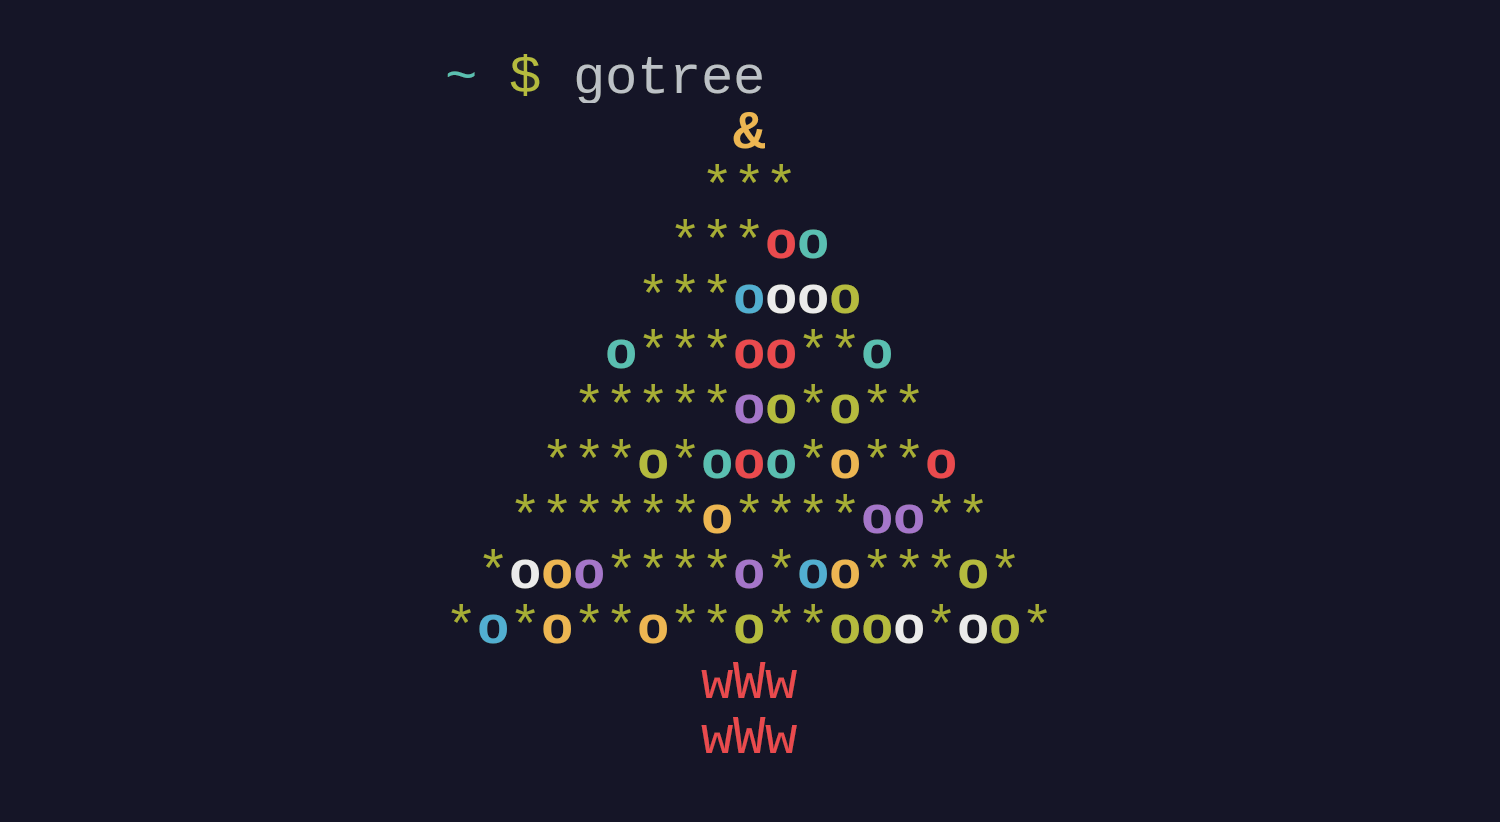
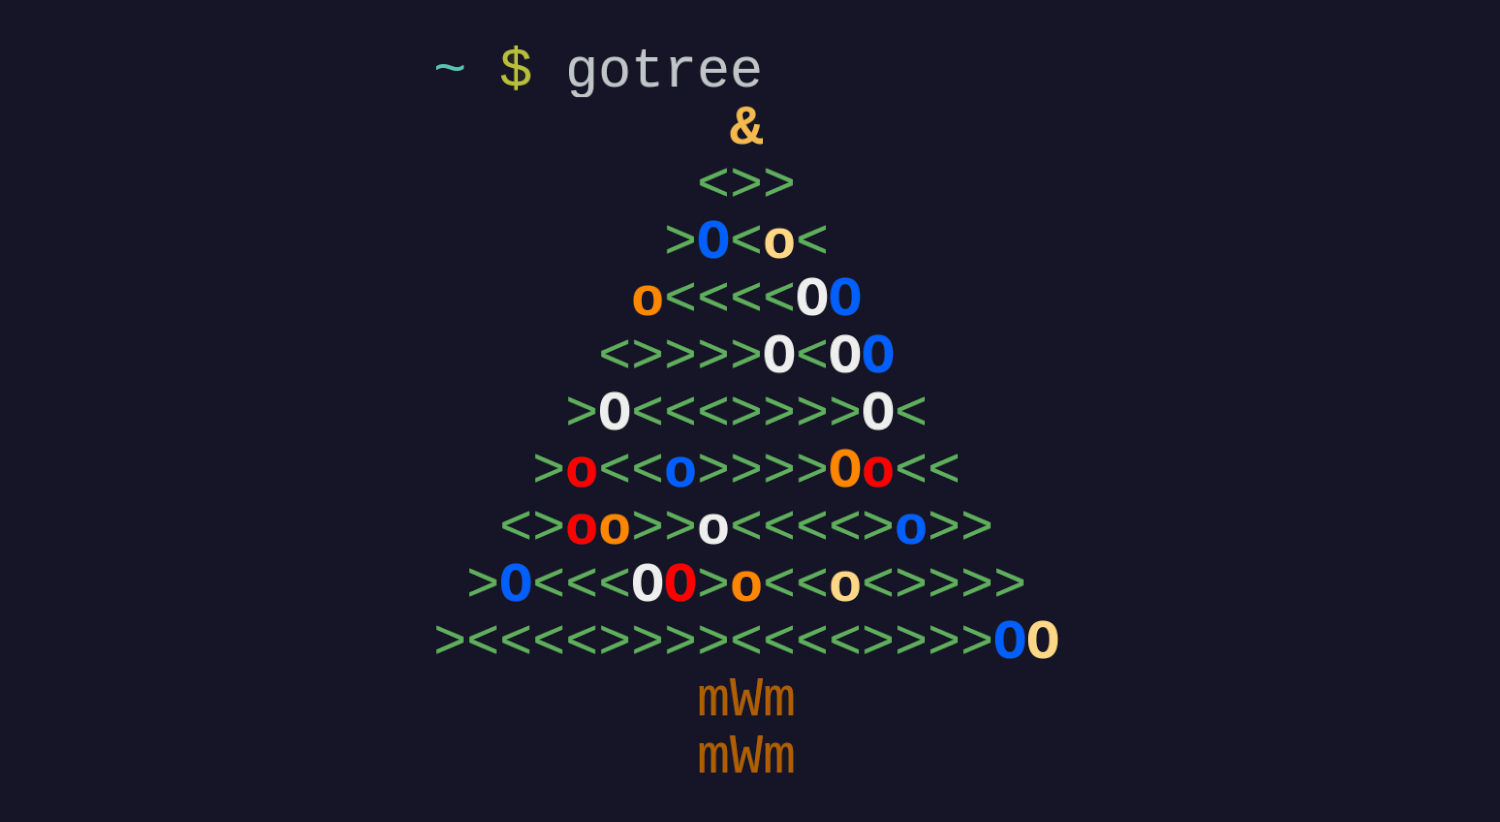
New config, options, recolor

Changed region(s): [[0.276, 0.2737, 0.7053, 0.9428], [0.3373, 0.0608, 0.552, 0.2433], [0.276, 0.0608, 0.3067, 0.0912]]

diff --git a/pkg/gotree/gotree.go b/pkg/gotree/gotree.go
@@ -36,6 +36,10 @@ const (
 	AttrBrightWhite   = "\x1b[97m"
 )
 
+func Color256(id string) string {
+	return "\x1b[38;5;" + id + "m"
+}
+
 // Config
 var (
 	Width  = 19
@@ -43,25 +47,26 @@ var (
 
 	Offset = 1
 
-	LeafChar   = '*'
-	LeafAttr   = AttrGreen
-	LeafChance = 4
+	LeafCharRight = '>'
+	LeafCharLeft  = '<'
+	LeafAttr      = Color256("71")
+	LeafChance    = 4
 
-	LightBulbChar  = 'o'
+	LightBulbChars = []rune{'o', 'O'}
 	LightBulbAttr  = AttrBold
-	LightBulbAttrs = []string{AttrBrightRed,
-	                          AttrBrightGreen,
-	                          AttrBrightYellow,
-	                          AttrBrightBlue,
-	                          AttrBrightMagenta,
-	                          AttrBrightCyan,
-	                          AttrBrightWhite}
+	LightBulbAttrs = []string{
+		Color256("255"),
+		Color256("196"),
+		Color256("222"),
+		Color256("208"),
+		Color256("27"),
+	}
 
 	// Speed in ticks, a tick takes 60 miliseconds
 	LightsSpeed = 6
 
 	TrunkStr  = "wWw"
-	TrunkAttr = AttrBrightRed
+	TrunkAttr = Color256("130")
 	TrunkLen  = 2
 
 	StarChar = '&'
@@ -148,7 +153,7 @@ func renderTree() {
 	}
 
 	// Render the trunk
-	offset := Width / 2 - TrunkLen / 2 + Offset
+	offset := Width / 2 - len(TrunkStr) / 2 + Offset
 	out    := TrunkAttr + TrunkStr + AttrReset
 
 	for i := 0; i < TrunkLen; i ++ {
@@ -161,13 +166,31 @@ func renderLeafRow(width int) {
 
 	fmt.Print(strings.Repeat(" ", offset))
 
+	widthMod3 := width % 3 == 0
+	which     := widthMod3
+
 	for i := 0; i < width; i ++ {
 		if rand.Intn(LeafChance) == 1 { // Render a light bulb
 			attr := LightBulbAttr + LightBulbAttrs[rand.Intn(len(LightBulbAttrs))]
+			char := LightBulbChars[rand.Intn(len(LightBulbChars))]
 
-			fmt.Print(attr + string(LightBulbChar) + AttrReset)
+			fmt.Print(attr + string(char) + AttrReset)
 		} else { // Render a leaf
-			fmt.Print(LeafAttr + string(LeafChar) + AttrReset)
+			if which {
+				fmt.Print(LeafAttr + string(LeafCharRight) + AttrReset)
+			} else {
+				fmt.Print(LeafAttr + string(LeafCharLeft) + AttrReset)
+			}
+		}
+
+		if widthMod3 {
+			if i % 5 == 0 {
+				which = !which
+			}
+		} else {
+			if i % 4 == 0 {
+				which = !which
+			}
 		}
 	}
 

diff --git a/cmd/gotree/main.go b/cmd/gotree/main.go
@@ -16,10 +16,12 @@ var (
 
 	offset = flag.Int("offset", 1, "Tree offset from the left")
 
-	trunkStr = flag.String("trunkStr", "wWw", "Trunk rendering string")
+	trunkStr = flag.String("trunkStr", "mWm", "Trunk rendering string")
 	trunkLen = flag.Int("trunkLen",    2,     "Length of the trunk")
 
-	leafChance = flag.Int("leafChance", 3, "The chance of a leaf appearing")
+	leafCharRight = flag.String("leafCharRight", "<", "The right pointing leaf character")
+	leafCharLeft  = flag.String("leafCharLeft",  ">", "The left pointing leaf character")
+	leafChance    = flag.Int("leafChance",       3,   "The chance of a leaf appearing")
 
 	lightsSpeed = flag.Int("lightsSpeed", 6,
 	                       "Speed of the lights flickering in ticks, 1 tick = 60ms")
@@ -36,7 +38,23 @@ func init() {
 	gotree.TrunkStr = *trunkStr
 	gotree.TrunkLen = *trunkLen
 
-	gotree.LeafChance = *leafChance
+	if len(*leafCharRight) != 1 {
+		fmt.Fprintf(os.Stderr, "Error: leafCharRight length expected to be 1, got %v\n",
+		            len(*leafCharRight))
+
+		os.Exit(1)
+	}
+
+	if len(*leafCharLeft) != 1 {
+		fmt.Fprintf(os.Stderr, "Error: leafCharLeft length expected to be 1, got %v\n",
+		            len(*leafCharLeft))
+
+		os.Exit(1)
+	}
+
+	gotree.LeafCharRight = rune((*leafCharRight)[0])
+	gotree.LeafCharLeft  = rune((*leafCharLeft)[0])
+	gotree.LeafChance    = *leafChance
 
 	gotree.LightsSpeed = *lightsSpeed
 }

diff --git a/README.md b/README.md
@@ -33,7 +33,9 @@ $ gotree
 ```
 
 ## Customization
-See `gotree -h` for a list of customization flags
+See `gotree -h` for a list of customization flags.
+If you want to customize more, you can edit the file [./pkg/gotree/gotree.go](./pkg/gotree/gotree.go) config section
+and recompile the program.
 
 ## Bugs
 If you find any bugs, please create an issue and report them.
